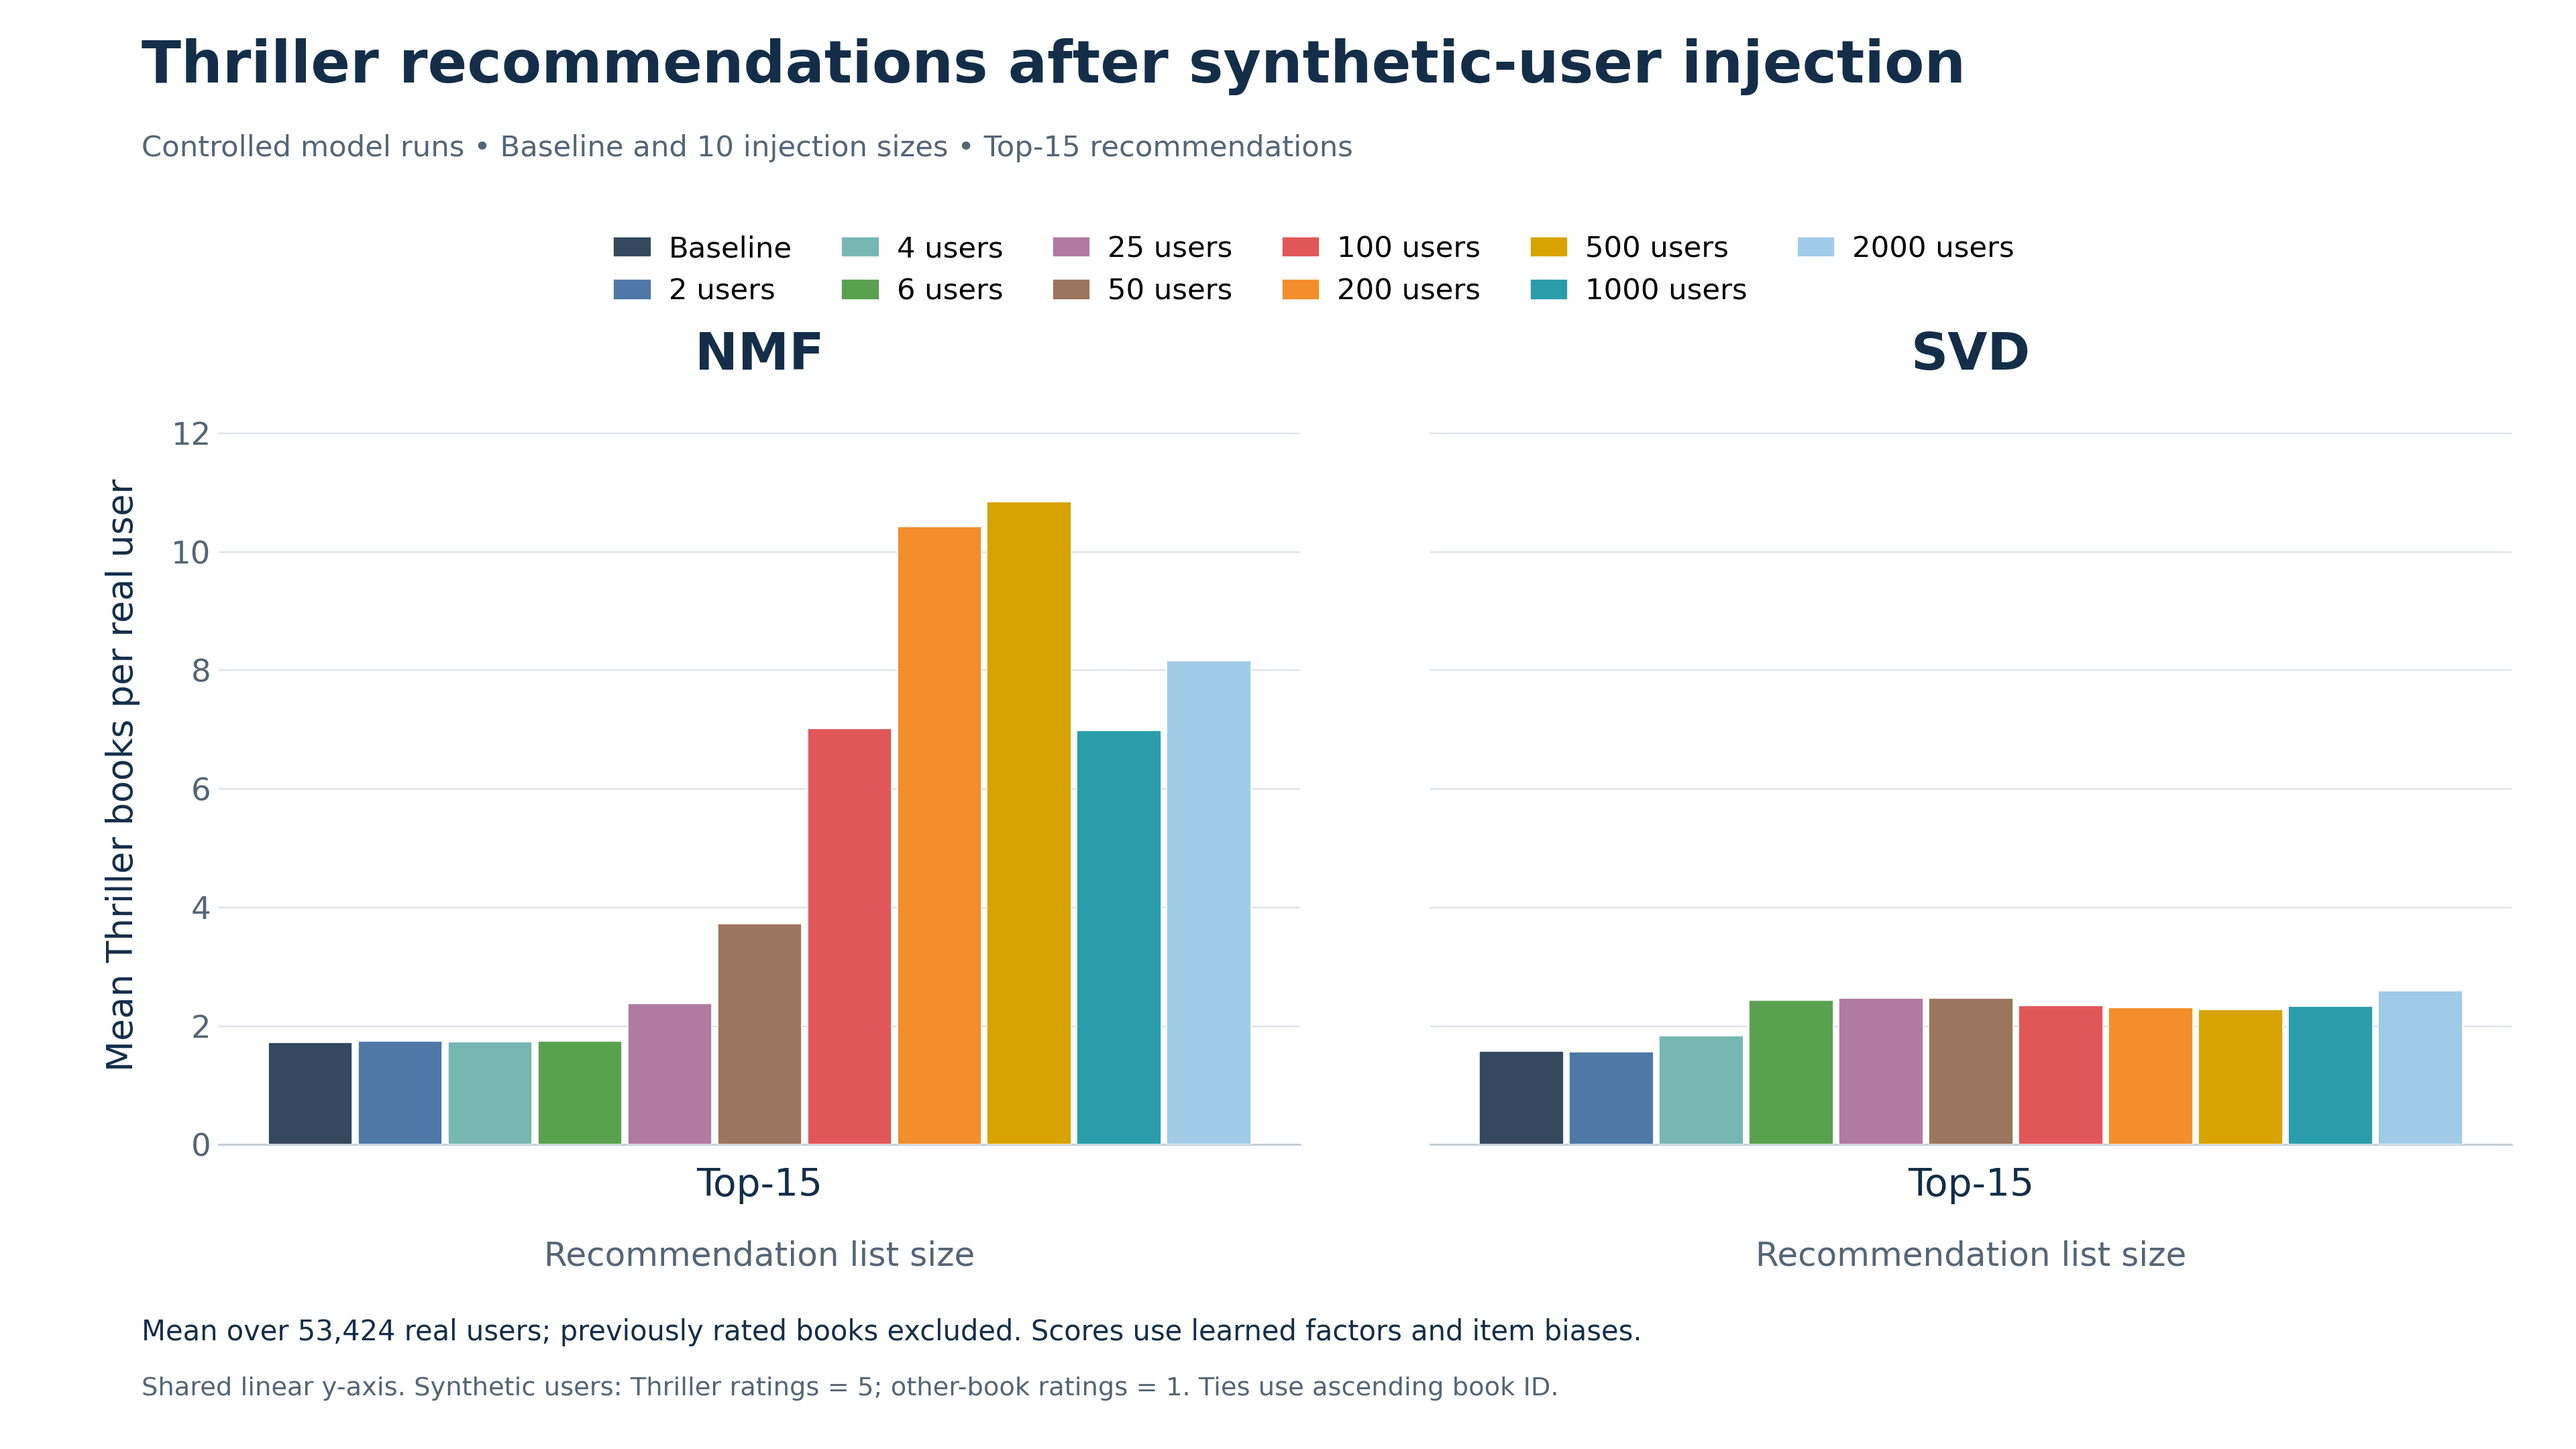
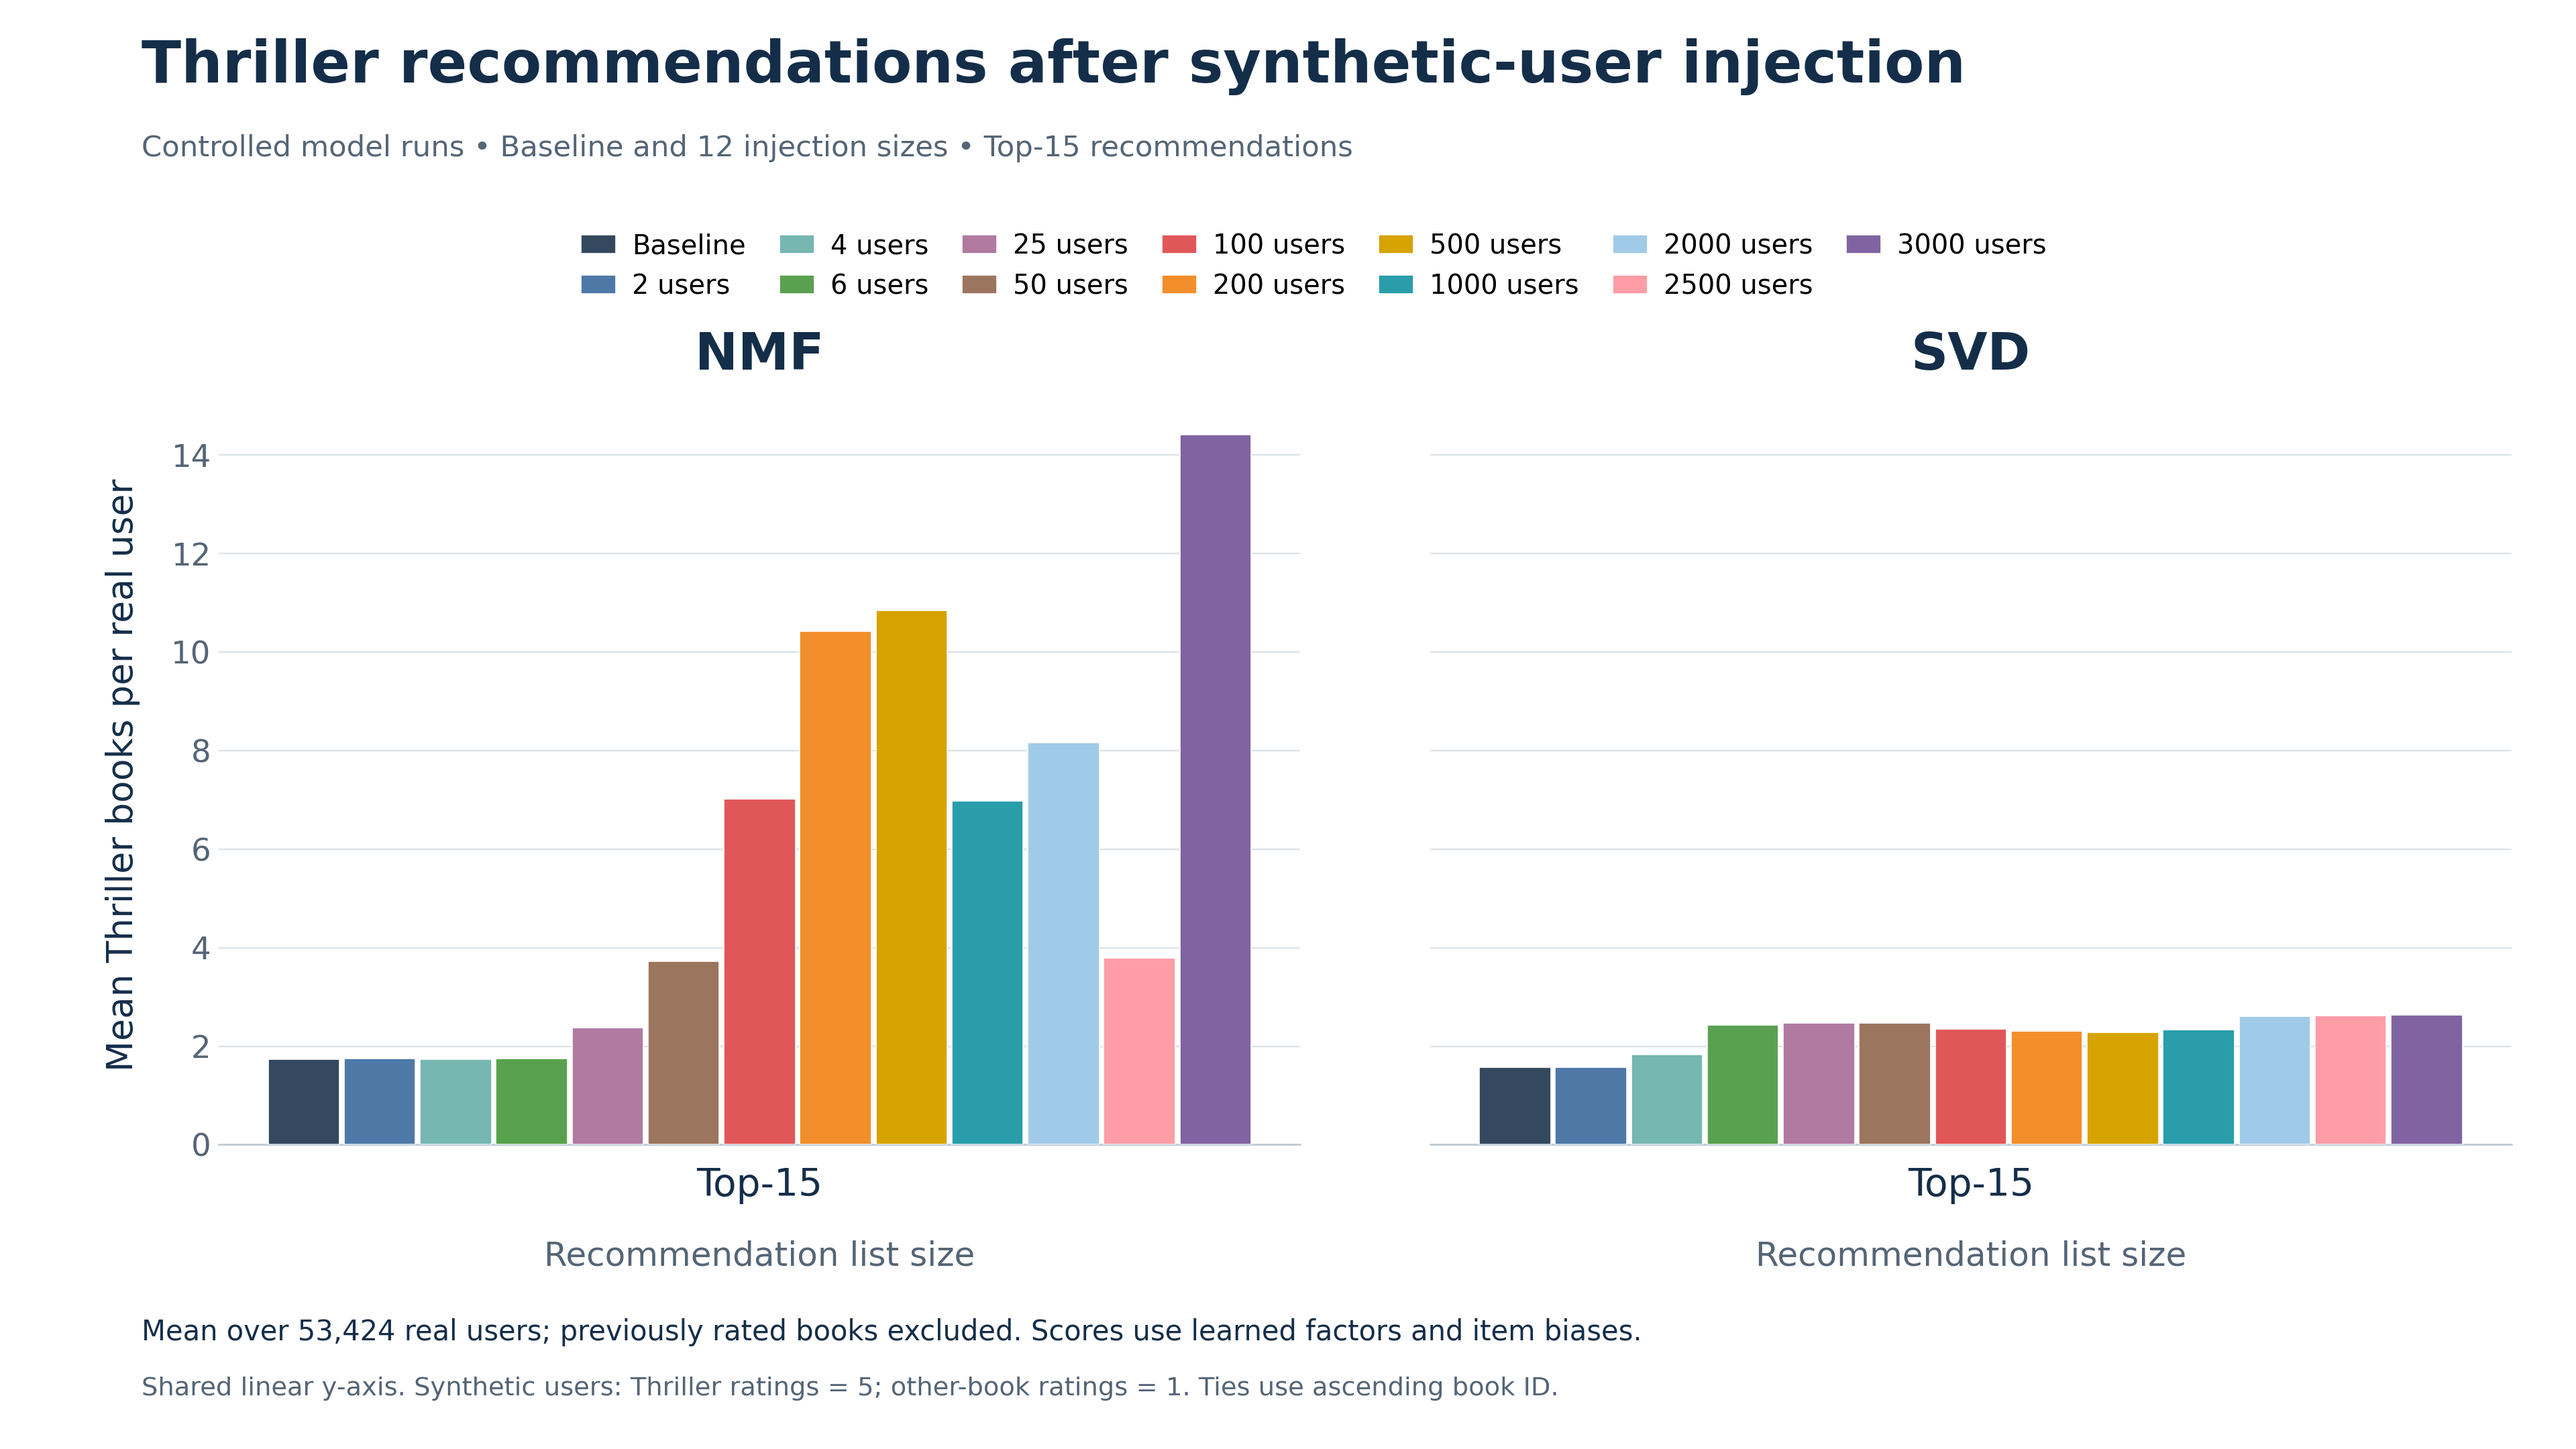
Add 2500 and 3000 users to full Thriller Top-15 comparison

diff --git a/Book/current/PerturbRec/svd_nmf/layer1/notebook/build_controlled_top15.py b/Book/current/PerturbRec/svd_nmf/layer1/notebook/build_controlled_top15.py
@@ -9,7 +9,7 @@ from concurrent.futures import ProcessPoolExecutor
 ROOT=Path('/home/moshtasa/Research/phd-recsys/Book/current/PerturbRec/svd_nmf')
 L=ROOT/'layer1';E=ROOT/'layer2/embeddings'
 SRC=Path('/home/moshtasa/Research/phd-recsys/Book/Archive/data/genre_clean.csv')
-COUNTS=[0,2,4,6,25,50,100,200,500,1000,2000]
+COUNTS=[0,2,4,6,25,50,100,200,500,1000,2000,2500,3000]
 TABLE=L/'tables/controlled_thriller_top15.csv'
 PNG=L/'comparision - Thriller_top15_powerpoint.png'
 
@@ -53,12 +53,12 @@ def plot(data):
  plt.rcParams.update({'font.family':'DejaVu Sans','font.size':15})
  fig,axes=plt.subplots(1,2,figsize=(16,9),sharey=True)
  navy='#142E49';muted='#546576'
- colors=['#34495E','#4E79A7','#76B7B2','#59A14F','#B07AA1','#9C755F','#E15759','#F28E2B','#D6A300','#2A9DAB','#A0CBE8'];handles=[]
+ colors=['#34495E','#4E79A7','#76B7B2','#59A14F','#B07AA1','#9C755F','#E15759','#F28E2B','#D6A300','#2A9DAB','#A0CBE8','#FF9DA7','#8064A2'];handles=[]
  ymax=max(data.mean_target_count.max()*1.15,3)
  for ax,m in zip(axes,['nmf','svd']):
   d=data[data.model==m].sort_values('n_fake');assert d.n_fake.tolist()==COUNTS
-  x=(np.arange(11)-5)*.098
-  bars=ax.bar(x,d.mean_target_count,width=.092,color=colors,edgecolor='white',linewidth=.5,zorder=3)
+  x=(np.arange(len(COUNTS))-(len(COUNTS)-1)/2)*.084
+  bars=ax.bar(x,d.mean_target_count,width=.079,color=colors,edgecolor='white',linewidth=.5,zorder=3)
   if m=='nmf':handles=list(bars)
   ax.set_title(m.upper(),fontsize=23,color=navy,weight='bold',pad=16)
   ax.set_xticks([0]);ax.set_xticklabels(['Top-15'],fontsize=17,color=navy)
@@ -70,8 +70,8 @@ def plot(data):
  axes[0].set_ylabel('Mean Thriller books per real user',fontsize=16,color=navy,labelpad=14)
  fig.subplots_adjust(left=.085,right=.975,bottom=.21,top=.72,wspace=.12)
  fig.text(.055,.943,'Thriller recommendations after synthetic-user injection',fontsize=26,weight='bold',color=navy)
- fig.text(.055,.892,'Controlled model runs • Baseline and 10 injection sizes • Top-15 recommendations',fontsize=13,color=muted)
- fig.legend(handles,['Baseline']+[f'{n} users' for n in COUNTS[1:]],loc='upper center',bbox_to_anchor=(.51,.856),ncol=6,frameon=False,fontsize=13,columnspacing=1.7,handlelength=1.3,handletextpad=.6)
+ fig.text(.055,.892,'Controlled model runs • Baseline and 12 injection sizes • Top-15 recommendations',fontsize=13,color=muted)
+ fig.legend(handles,['Baseline']+[f'{n} users' for n in COUNTS[1:]],loc='upper center',bbox_to_anchor=(.51,.856),ncol=7,frameon=False,fontsize=12,columnspacing=1.25,handlelength=1.3,handletextpad=.6)
  fig.text(.055,.075,'Mean over 53,424 real users; previously rated books excluded. Scores use learned factors and item biases.',fontsize=12.5,color=navy)
  fig.text(.055,.037,'Shared linear y-axis. Synthetic users: Thriller ratings = 5; other-book ratings = 1. Ties use ascending book ID.',fontsize=11.5,color=muted)
  fig.savefig(PNG,dpi=240,facecolor='white');plt.close(fig)
@@ -81,9 +81,18 @@ if __name__=='__main__':
  rng=np.random.RandomState(42);s=rng.randint(-2,4,(7,30)).astype(float);mask=np.zeros_like(s,dtype=bool);mask[:,0]=True;t=rng.rand(30)>.5
  ref=s.copy();ref[mask]=-np.inf;expected=t[np.argsort(-ref,axis=1,kind='stable')[:,:15]].sum(1)
  assert np.array_equal(count_top(s.copy(),mask,t),expected)
- if TABLE.exists():data=pd.read_csv(TABLE)
+ if TABLE.exists():
+  data=pd.read_csv(TABLE)
+  extension=pd.read_csv(L/'tables/extension_2500_3000_recommendation_counts.csv')
+  new=extension[(extension.genre=='Thriller')&(extension.k==15)&(extension.n_fake.isin([2500,3000]))]
+  assert len(new)==4
+  old=data[~data.n_fake.isin([2500,3000])].copy()
+  data=pd.concat([old,new],ignore_index=True).sort_values(['model','n_fake']).reset_index(drop=True)
+  check=data[data.n_fake<=2000].sort_values(['model','n_fake']).reset_index(drop=True)
+  pd.testing.assert_frame_equal(check,old.sort_values(['model','n_fake']).reset_index(drop=True))
+  data.to_csv(TABLE,index=False)
  else:
   with ProcessPoolExecutor(max_workers=2) as pool:results=list(pool.map(run,['nmf','svd']))
   data=pd.DataFrame([r for a in results for r in a]);data.to_csv(TABLE,index=False)
- assert len(data)==22 and set(data.k)=={15}
+ assert len(data)==26 and set(data.k)=={15}
  plot(data);print('SAVED',PNG,flush=True)
